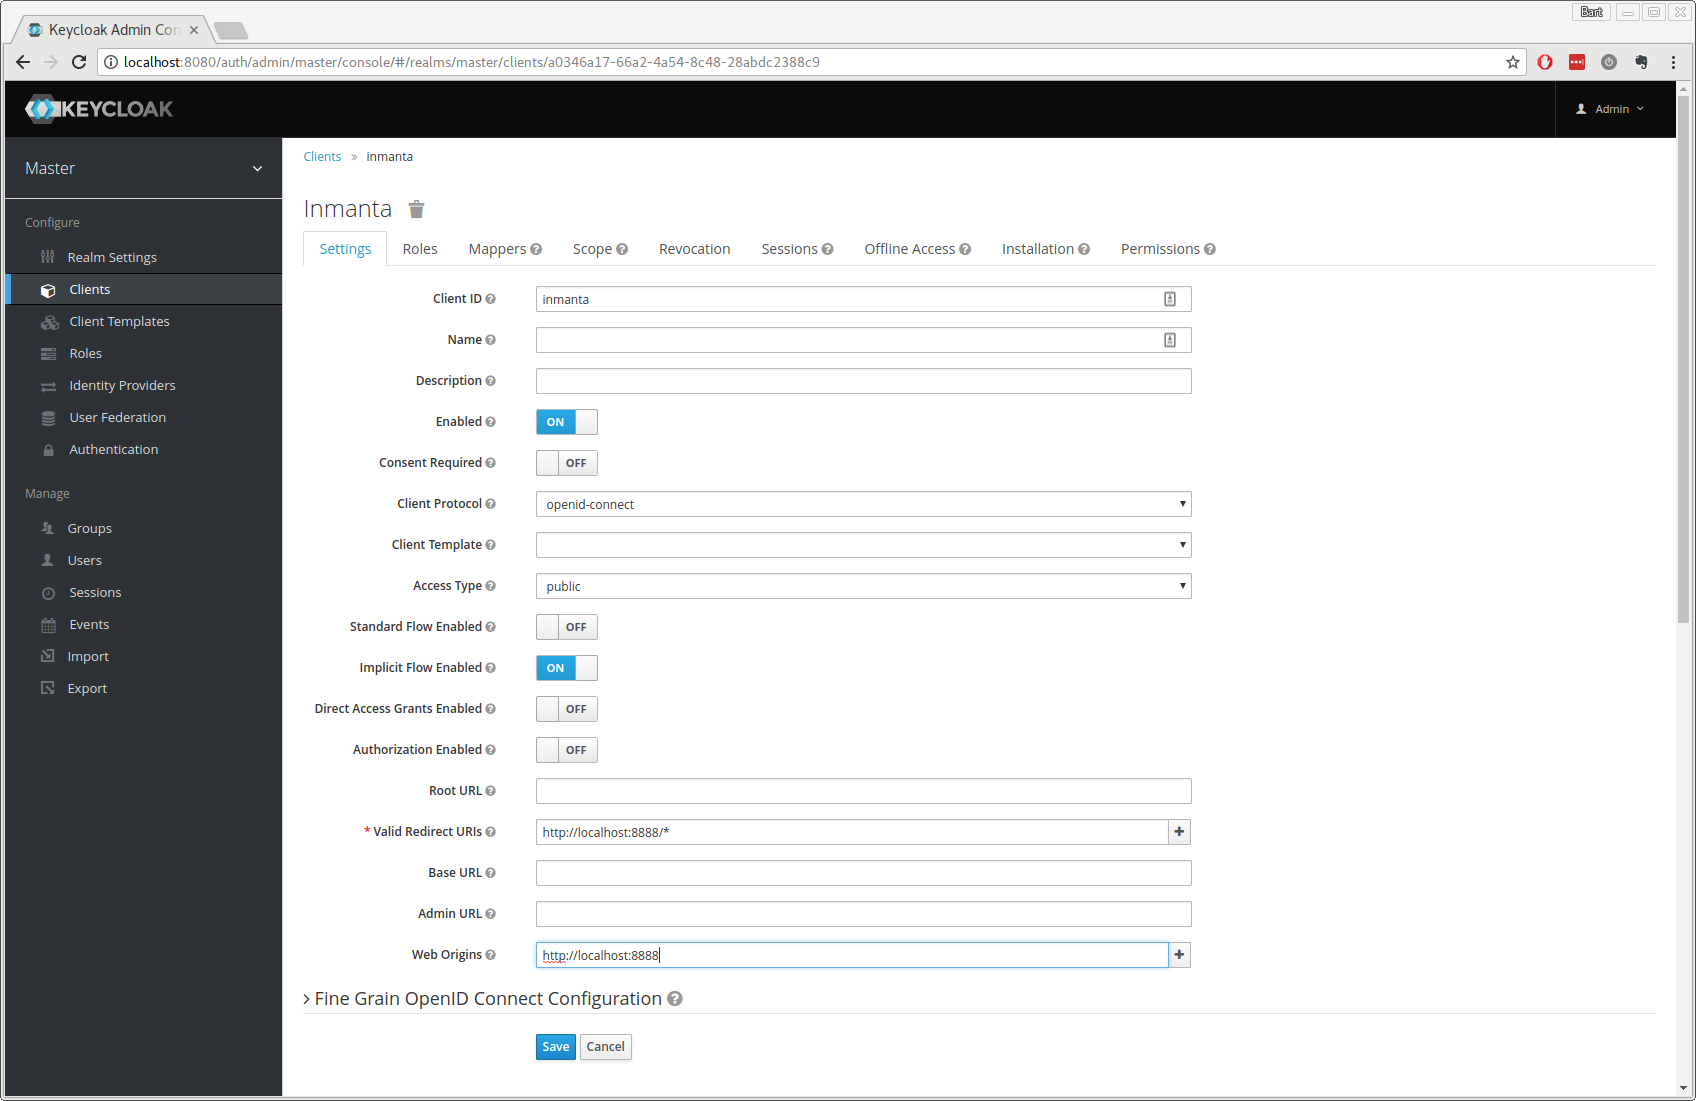
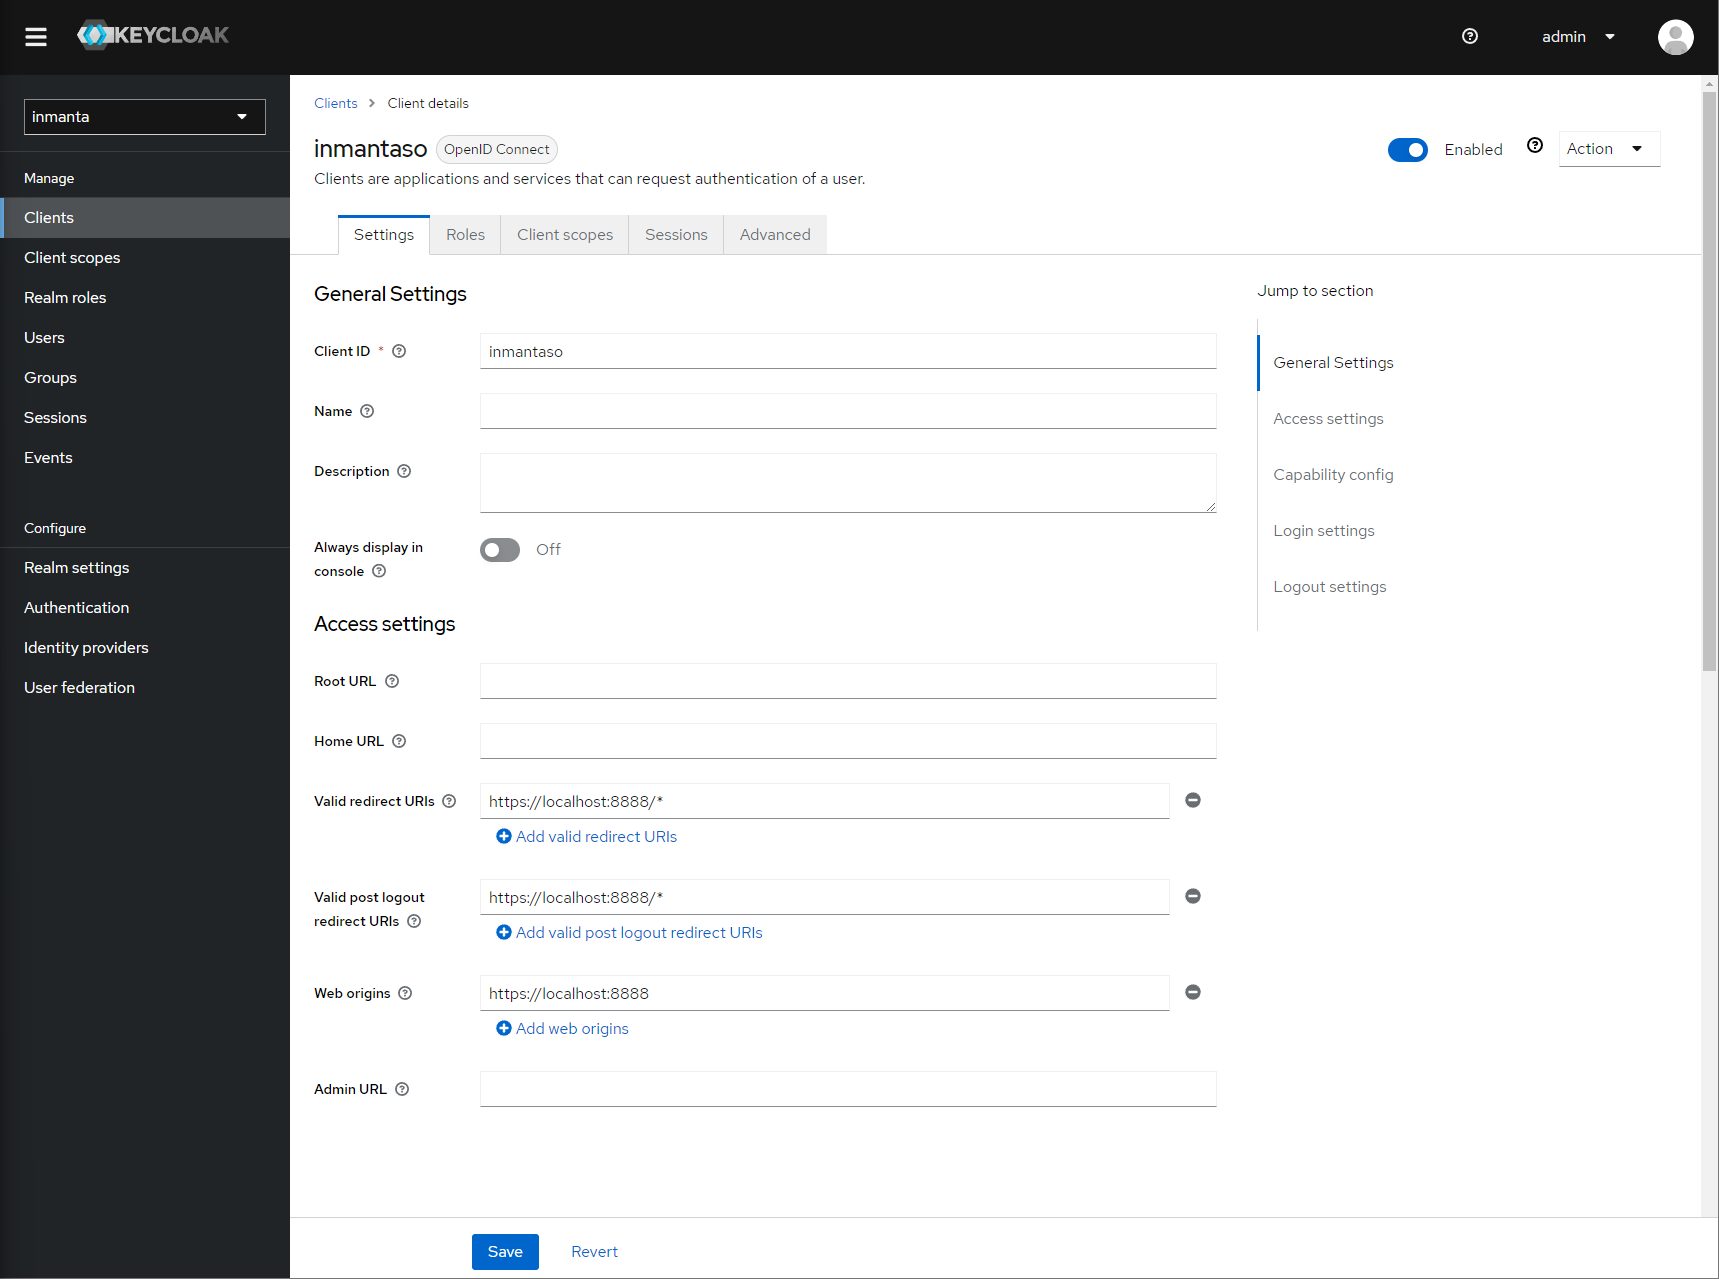
update documentation to setup a keycloak configuration.

diff --git a/docs/administrators/auth.rst b/docs/administrators/auth.rst
@@ -172,7 +172,7 @@ Keycloak configuration
 The web-console has out of the box support for authentication with `Keycloak <http://www.keycloak.org>`_. Install keycloak and
 create an initial login as described in the Keycloak documentation and login with admin credentials.
 
-This guide was made based on Keycloak 3.3
+This guide was made based on Keycloak 20.0
 
 If inmanta is configured to use SSL, the authentication provider should also use SSL. Otherwise, the web-console will not be
 able to fetch user information from the authentication provider.
@@ -203,16 +203,15 @@ For example call the realm inmanta
 Step 2: Add a new client to keycloak
 ^^^^^^^^^^^^^^^^^^^^^^^^^^^^^^^^^^^^
 
-Make sure the correct realm is active (the name is shown in the title of the left sidebar) to which you want to add a new client.
+Make sure the correct realm is active (the name is shown in the realm selection dropdown) to which you want to add a new client.
 
 .. figure:: /administrators/images/kc_start.png
    :width: 100%
    :align: center
 
-   The start page of a realm. Here you can edit names, policies, ... of the realm. The defaults are sufficient for inmanta
-   authentication. This shows the inmanta realm.
+   The start page of your newly created realm.
 
-Go to client and click create on the right hand side of the screen.
+Go to clients and click create on the right hand side of the screen.
 
 .. figure:: /administrators/images/kc_clients.png
    :width: 100%
@@ -229,13 +228,26 @@ Provide an id for the client and make sure that the client protocol is ``openid-
    Create client screen
 
 After clicking save, keycloak opens the configuration of the client. Modify the client to allow implicit flows and add
-vallid callback URLs. As a best practice, also add the allowed origins. See the screenshot below as an example.
+valid redirect URIs and valid post logout redirect URIs. As a best practice, also add the allowed web origins. See the screenshot below as an example.
 
 .. figure:: /administrators/images/kc_client_details.png
    :width: 100%
    :align: center
 
+
+.. figure:: /administrators/images/kc_client_details2.png
+   :width: 100%
+   :align: center
+
    Allow implicit flows (others may be disabled) and configure allowed callback urls of the web-console.
+
+Go to the client scopes in your Client details.
+
+.. figure:: /administrators/images/kc_client_scopes.png
+   :width: 100%
+   :align: center
+
+   Click on the inmantaso-dedicated to edit the dedicated scope and mappers.
 
 Add a mapper to add custom claims to the issued tokens for the API client type. Open de mappers tab of your new client and click
 `add`.
@@ -256,27 +268,33 @@ added to the access token.
    Add the ct claim to all access tokens for this client.
 
 Add a second mapper to add inmanta to the audience (only required for Keycloak 4.6 and higher). Click `add` again as in the
-previous step. Fill in the following values:
+previous step. 
 
-* Name: inmanta-audience
-* Mapper type: Audience
-* Included Client Audience: inmanta
-* Add to access token: on
+.. figure:: /administrators/images/kc_audience_mapper.png
+   :width: 100%
+   :align: center
+      
+   Fill in the following values:
+
+   * Name: inmanta-audience
+   * Mapper type: Audience
+   * Included Client Audience: inmanta
+   * Add to access token: on
 
 Click save.
 
 Step 3: Configure inmanta server
 ^^^^^^^^^^^^^^^^^^^^^^^^^^^^^^^^
 
-Go to the installation tab and select JSON format in the select box. This JSON string provides you with the details to
-configure the server correctly to redirect web-console users to this keycloak instance and to validate the tokens
-issued by keycloak.
-
 .. figure:: /administrators/images/kc_install.png
    :width: 100%
    :align: center
 
-   Show the correct configuration parameters in JSON format.
+   Show the correct configuration parameters in JSON format. (Click on the top right dropdown 'Action' and pick 'Download adapter config'.)
+
+Select JSON format in the select box. This JSON string provides you with the details to
+configure the server correctly to redirect web-console users to this keycloak instance and to validate the tokens
+issued by keycloak.
 
 Add the keycloak configuration parameters to the web-ui section of the server configuration file. Add a configuration
 file called `/etc/inmanta/inmanta.d/keycloak.cfg`. Add the oidc_realm, oidc_auth_url and oidc_client_id to the web-ui section. Use
@@ -284,11 +302,11 @@ the parameters from the installation json file created by keycloak.
 
 .. code-block:: ini
 
-    [web-ui]
-    # generic OpenID connect configuration
-    oidc_realm=master
-    oidc_auth_url=http://localhost:8080/auth
-    oidc_client_id=inmanta
+   [web-ui]
+   # generic OpenID connect configuration
+   oidc_realm=inmanta
+   oidc_auth_url=http://localhost:8080
+   oidc_client_id=inmantaso
 
 .. warning:: In a real setup, the url should contain public names instead of localhost, otherwise logins will only work
    on the machine that hosts inmanta server.
@@ -297,13 +315,18 @@ Configure a ``auth_jwt_`` block (for example ``auth_jwt_keycloak``) and configur
 
 .. code-block:: ini
 
-    [auth_jwt_keycloak]
-    algorithm=RS256
-    sign=false
-    client_types=api
-    issuer=http://localhost:8080/auth/realms/master
-    audience=inmanta
-    jwks_uri=http://localhost:8080/auth/realms/master/protocol/openid-connect/certs
+   [server]
+   auth=true
+
+   [auth_jwt_keycloak]
+   algorithm=RS256
+   sign=false
+   client_types=api
+   issuer=http://localhost:8080/realms/inmanta
+   audience=inmantaso
+   jwks_uri=http://keycloak:8080/realms/inmanta/protocol/openid-connect/certs
+   validate_cert=false
+
 
 Set the algorithm to RS256, sign should be false and client_types should be limited to api only. Next set the issuer to the
 correct value (watch out for the realm). Set the audience to the value of the resource key in the json file. Finally, set the
@@ -311,7 +334,7 @@ jwks_uri so the server knows how to fetch the public keys to verify the signatur
 able to access this url).
 
 Both the correct url for the issuer and the jwks_uri is also defined in the openid-configuration endpoint of keycloack. For
-the examples above this url is http://localhost:8080/auth/realms/master/.well-known/openid-configuration
+the examples above this url is http://localhost:8080/realms/inmanta/.well-known/openid-configuration
 (https://www.keycloak.org/docs/latest/securing_apps/index.html#endpoints)
 
 .. warning:: When the certificate of keycloak is not trusted by the system on which inmanta is installed, set ``validate_cert``
